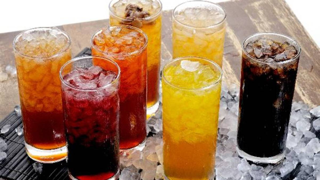
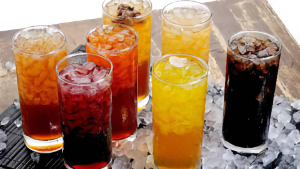
Resize images assets

diff --git a/index.html b/index.html
@@ -15,7 +15,7 @@
 <body>
     <div class="container">
         <header>
-            <img src="./assets/img/n de tamaño pequeño.png" alt="Logo Nimrodel Pub Restaurant">
+            <img src="./assets/img/n.png" alt="Logo Nimrodel Pub Restaurant">
             <nav>
                 <ul>
                     <li><a href="#">Nuestros Productos</a></li>
